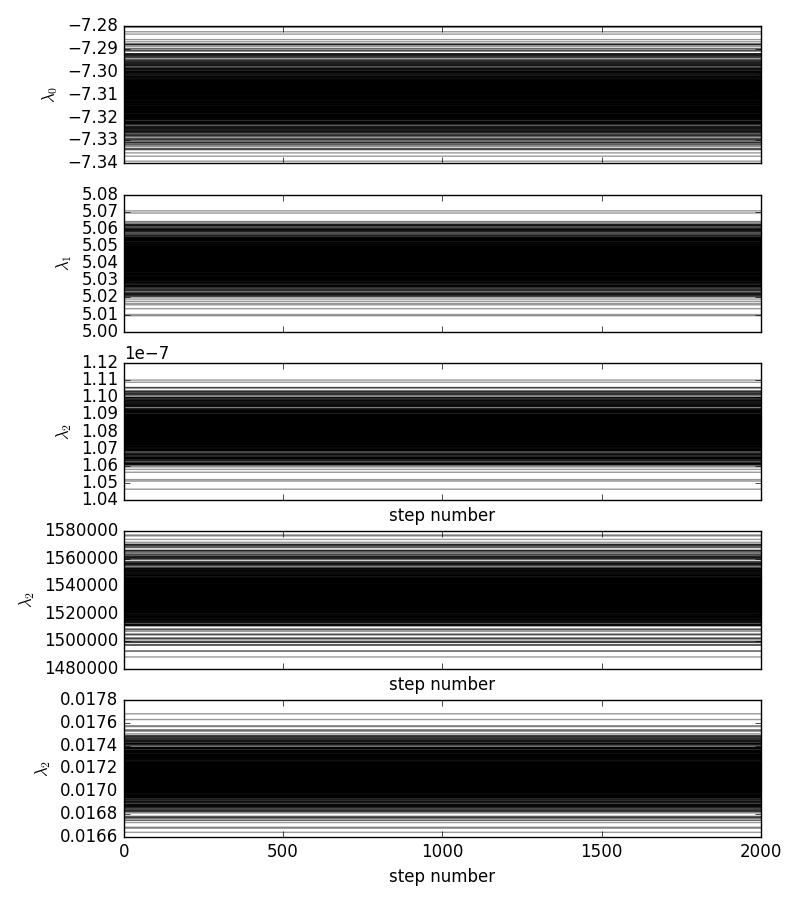
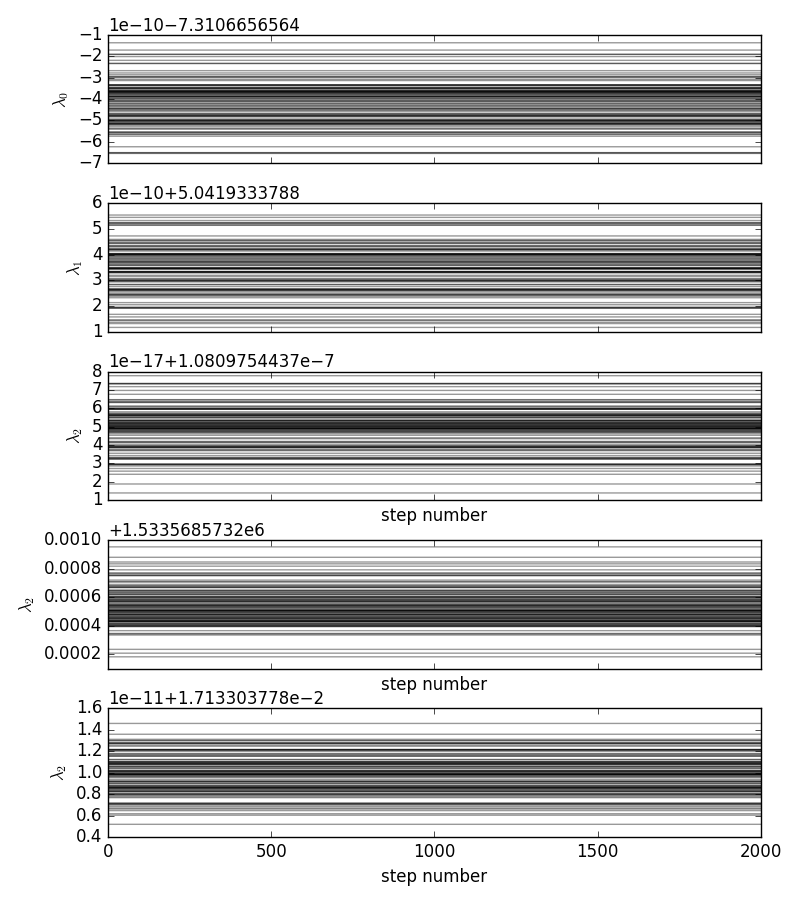
finishing the fitting

diff --git a/src/mcmc.py b/src/mcmc.py
@@ -91,11 +91,7 @@ def chi2(*args):
 
 # define least-square to provide initial guess for MCMC
 def least_square(x,y,yerr,degree,output_directory):
-    # Plot the dataset and the true model.
-    fig,ax = pl.subplots()
-    ax.errorbar(x, y, yerr=yerr, fmt=".k")
-    
-    # Do the least-squares fit and compute the uncertainties.
+    # Do the least-squares fit
     A = poly_model(x, degree)
     lam_ls,residual,rank,s = np.linalg.lstsq(A,y)
     print("Least square fit coefficients:\n",lam_ls)
@@ -110,8 +106,8 @@ def maximum_likelihood(x,y,yerr,degree,lam_ls,output_directory):
 
 def MCMC(x,y,yerr,degree,lam_ml,output_directory):                                   
     # Set up the sampler.
-    ndim, nwalkers = degree+1, 500
-    pos = [lam_ml + 1e-2*np.random.randn(ndim) for i in range(nwalkers)]
+    ndim, nwalkers = degree+1, 100
+    pos = [lam_ml + 1e-15*np.random.randn(ndim) for i in range(nwalkers)]
     sampler = emcee.EnsembleSampler(nwalkers, ndim, lnprob, args=(degree, x, y, yerr))
 
     # Clear and run the production chain.
@@ -120,7 +116,7 @@ def MCMC(x,y,yerr,degree,lam_ml,output_directory):
     print("Done.")
     
 
-    pl.clf()
+    #pl.clf()
     fig, axes = pl.subplots(5, 1, sharex=True, figsize=(8, 9))
     axes[0].plot(sampler.chain[:, :, 0].T, color="k", alpha=0.4)
     axes[0].set_ylabel("$\lambda_0$")
@@ -197,9 +193,6 @@ def MCMC(x,y,yerr,degree,lam_ml,output_directory):
     print("MCMC best fit:\n")
     print(lam_MCMC_best)
 
-    
-
-    
     
     return lam_MCMC_best
 

diff --git a/src/chis_code.py b/src/chis_code.py
@@ -25,13 +25,13 @@ np.random.seed(123)
 
 def chis_code(x_in,y_in,yerr_in,output_directory):
     # Transform M_c into log-space.
-    index = check_nonzero(y_in)
+    index = check_nonzero(y_in) # exclude y = 0
     x = x_in[index>0]
     y_not_log = y_in[index>0]
     y = np.log10(y_not_log)
-    yerr_not_log = yerr_in[index>0]
+    yerr_not_log = yerr_in[index>0] 
     yerr = yerr_log(y_not_log,yerr_not_log)
-    #yerr = np.log10(yerr_not_log)
+
     
     print(len(yerr))
     
